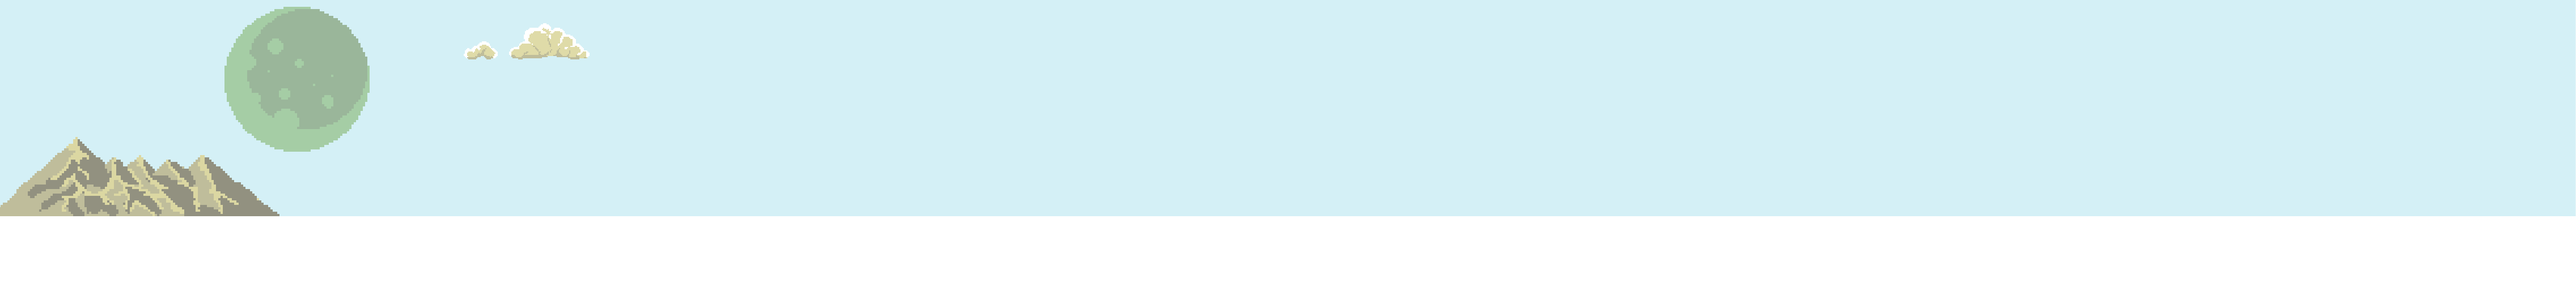
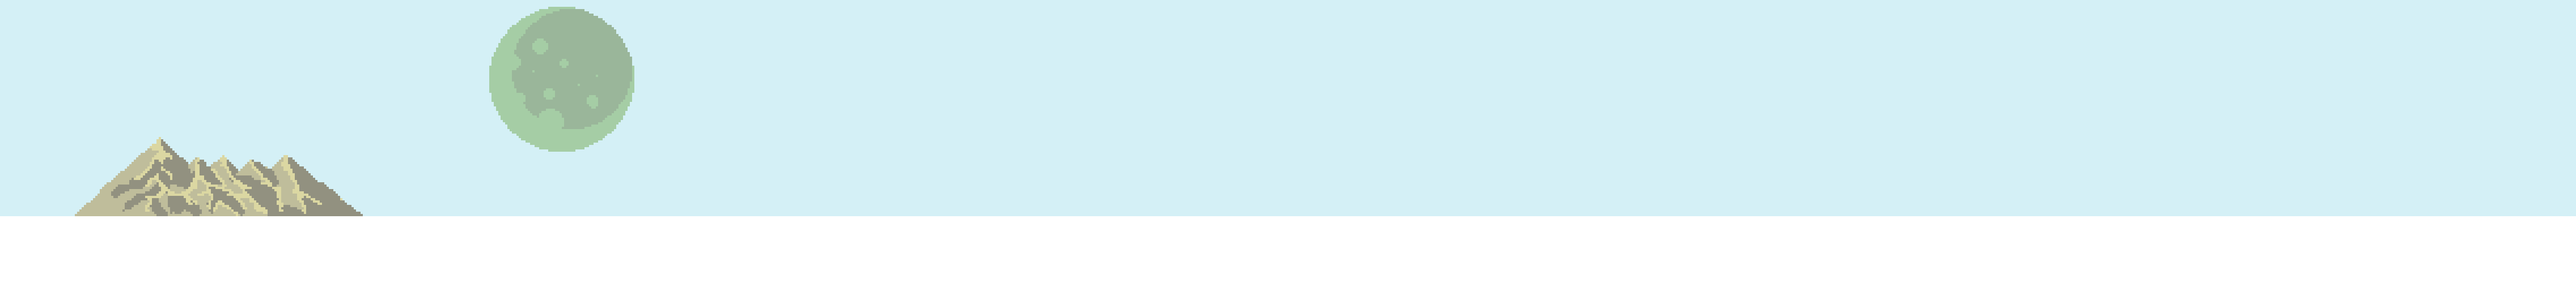
parallax effect added. Pending refactor for bg files

Changed region(s): [[0.0, 0.03, 0.25, 0.78]]

diff --git a/js/game.js b/js/game.js
@@ -6,6 +6,7 @@ class Game {
     this.player = new Player(this.ctx);
     this.tick = 0;
     this.backgroundBack = new BackgroundBack(this.ctx);
+    this.backgroundClouds = new BackgroundClouds(this.ctx);
     this.background = new Background(this.ctx);
     this.platforms = [
       new Platform(this.ctx, 1002, 286, 129, 96),
@@ -40,6 +41,7 @@ class Game {
 
   draw() {
     this.backgroundBack.draw()
+    this.backgroundClouds.draw()
     this.background.draw()
     this.player.draw()
     //this.platforms.forEach(el => el.draw())
@@ -48,10 +50,14 @@ class Game {
   move() {
     if (this.player.x === this.player.maxX && this.player.actions.right) {
       this.background.move()
+      this.backgroundClouds.move()
+      this.backgroundBack.move()
       this.platforms.forEach(el => el.move())
     }
     if (this.background.x + this.background.w  <= 1080) {
       this.background.vx= 0
+      this.backgroundClouds.vx= 0
+      this.backgroundBack.vx= 0
       this.platforms.forEach(el => el.vx = 0)
       this.player.maxX = this.ctx.canvas.width
     }

diff --git a/js/player.js b/js/player.js
@@ -1,5 +1,5 @@
 class Player {
-  constructor() {
+  constructor(ctx) {
     this.ctx = ctx;
     this.width = 252;
     this.height = 54;
@@ -105,10 +105,10 @@ class Player {
       this.isJumping = true
     } else if(this.actions.right) {
       this.img.xFrameIndex = 0
-      this.vx = 4
+      this.vx = 3
     } else if(this.actions.left) {
       this.img.xFrameIndex = 0
-      this.vx = -4
+      this.vx = -3
     } else {
       this.vx = 0;
     }
@@ -118,6 +118,7 @@ class Player {
       this.img.yFrameIndex = 0;
       this.img.xFrameIndex = 0;
     }
+    
   }
 
   switchAction(key, apply) {

diff --git a/index.html b/index.html
@@ -15,6 +15,7 @@
   <script type="text/javascript" src="./js/constants.js"></script>
   <script type="text/javascript" src="./js/background.js"></script>
   <script type="text/javascript" src="./js/background-back.js"></script>
+  <script type="text/javascript" src="./js/background-clouds.js"></script>
   <script type="text/javascript" src="./js/player.js"></script>
   <script type="text/javascript" src="./js/enemy.js"></script>
   <script type="text/javascript" src="./js/platform.js"></script>

diff --git a/js/background-clouds.js b/js/background-clouds.js
@@ -1,4 +1,4 @@
-class Background {
+class BackgroundClouds {
   constructor(ctx) {
     this.ctx = ctx
 
@@ -7,10 +7,10 @@ class Background {
     this.h = this.ctx.canvas.height
     this.w = 4544
 
-    this.vx = -3
+    this.vx = -1.5
 
     this.img = new Image()
-    this.img.src = '/img/BG/BG-front.png'
+    this.img.src = '/img/BG/BG-cloud.png'
     this.movements = {
       right: false
     }

diff --git a/js/background-back.js b/js/background-back.js
@@ -7,7 +7,7 @@ class BackgroundBack {
       this.h = this.ctx.canvas.height
       this.w = 4544
   
-      this.vx = -0.1
+      this.vx = -0.5
   
       this.img = new Image()
       this.img.src = '/img/BG/BG-back.png'

diff --git a/js/platform.js b/js/platform.js
@@ -5,7 +5,7 @@ class Platform {
         this.y = y;
         this.width = width;
         this.height = height;
-        this.vx = -2
+        this.vx = -3
     }
 
     draw() {

diff --git a/js/coins.js b/js/coins.js
@@ -1,0 +1,5 @@
+class Coins {
+  constructor() {
+    
+  }
+}
